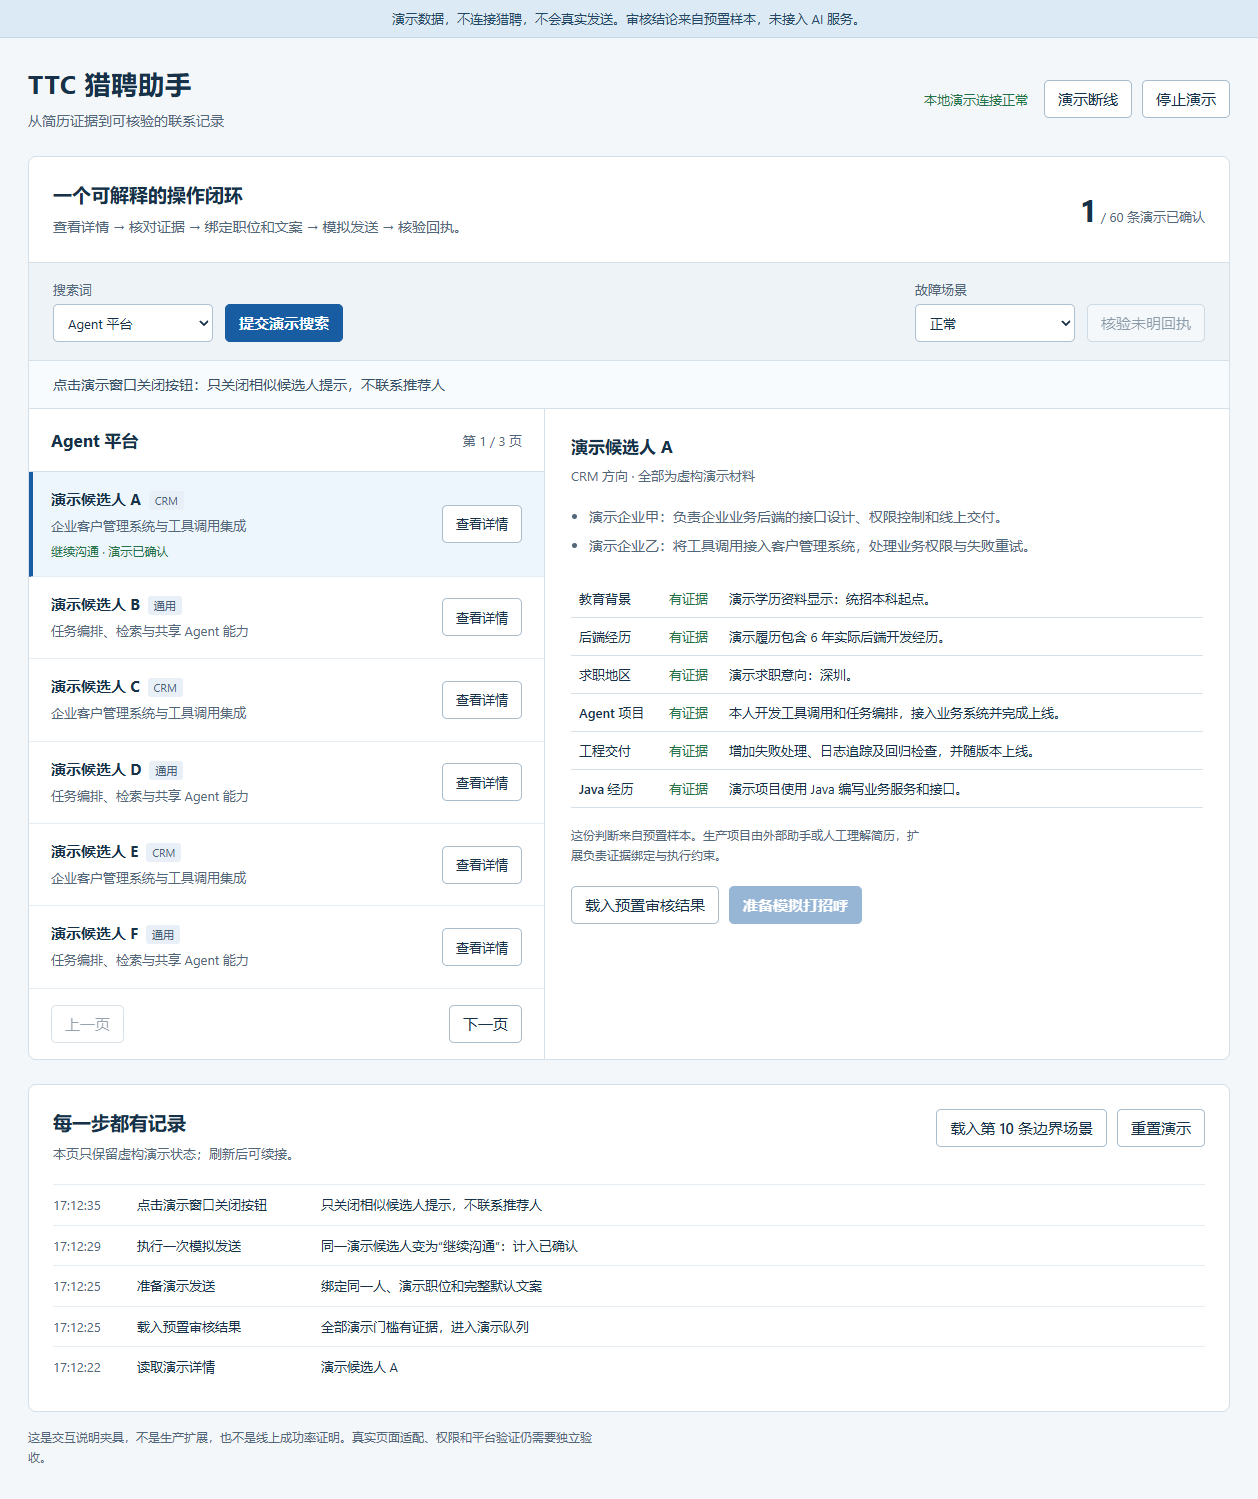
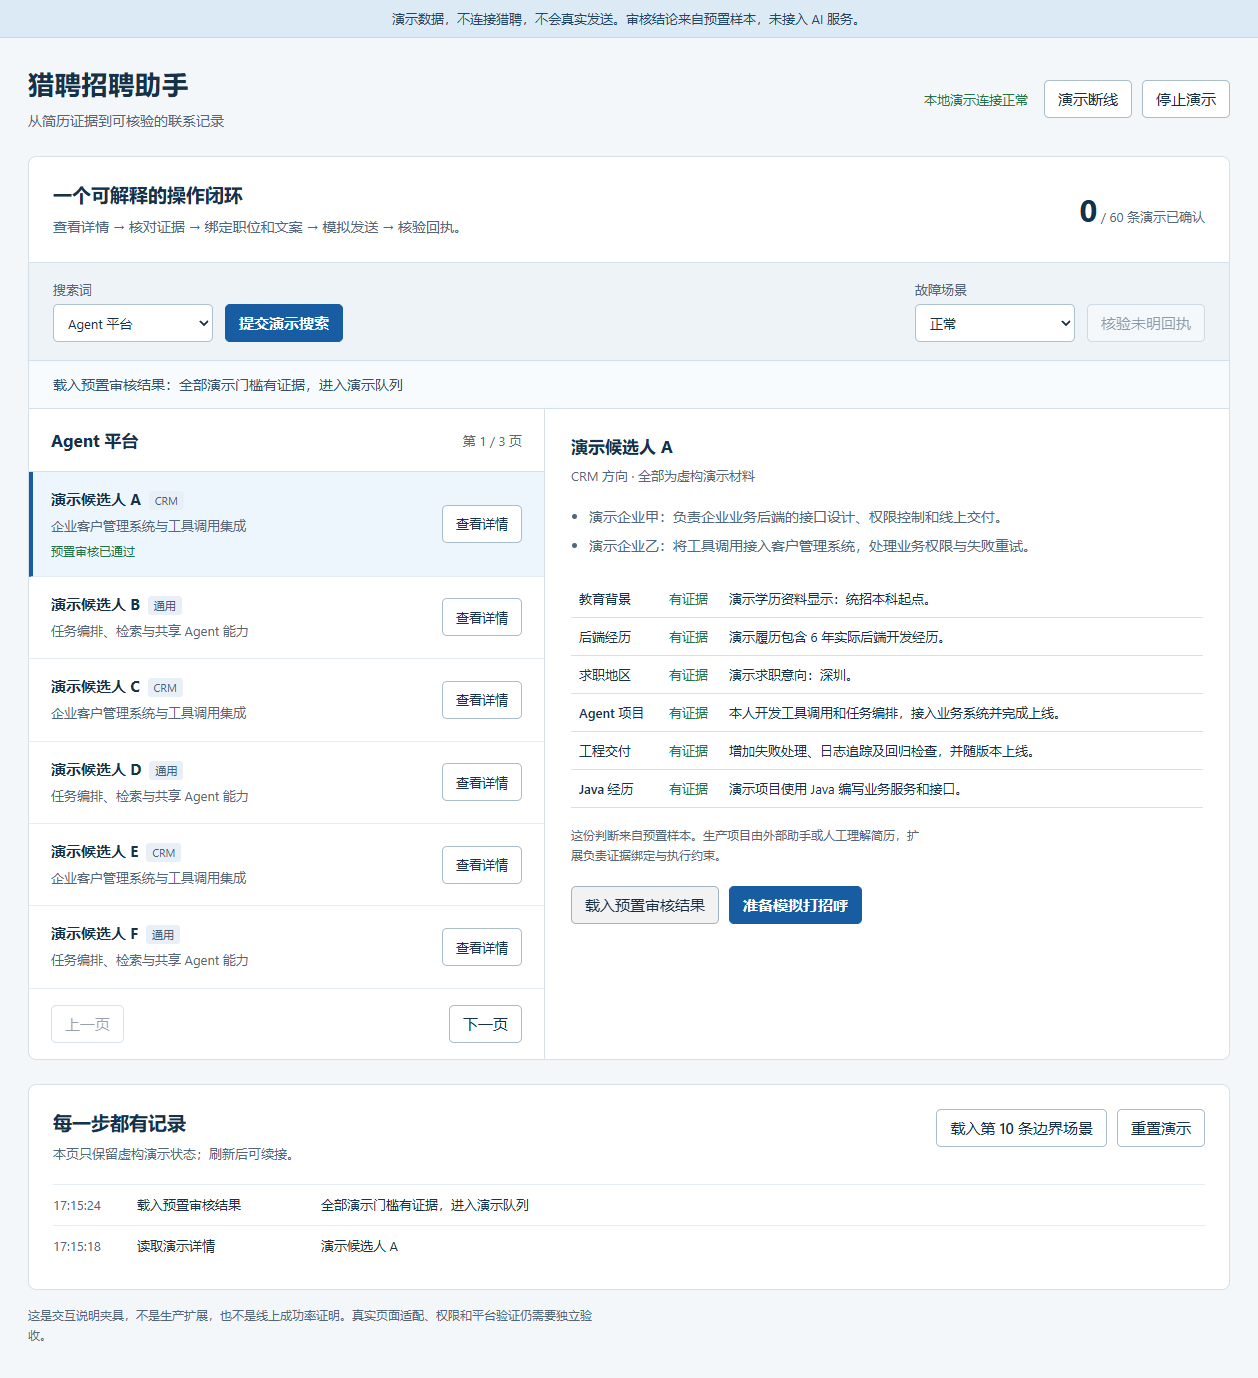
Remove company branding from project and demo

diff --git a/extension/content.js b/extension/content.js
@@ -39,7 +39,7 @@
   const click=(element,before=()=>{},guard=async()=>{},validate=()=>{})=>{
     const deadline=operationDeadline,assertActive=()=>ensureDeadline(deadline);
     assertActive();
-    return TTCPageControls.click(element,before,async()=>{assertActive();await guard();assertActive();},()=>{assertActive();validate();assertActive();},assertActive);
+    return RCPageControls.click(element,before,async()=>{assertActive();await guard();assertActive();},()=>{assertActive();validate();assertActive();},assertActive);
   };
   async function clickAfterLoading(el,validate){for(let i=0;i<3;i++){await wait(()=>![...document.querySelectorAll('.ant-spin-spinning')].some(visible),8000);try{return await click(el,()=>{},async()=>{},validate);}catch(e){if(!e.message.includes('ant-spin-spinning')||i===2)throw e;}}}
   const exact=(root,label)=>[...root.querySelectorAll('button,a,span,em')].filter(e=>visible(e)&&text(e)===label).sort((a,b)=>a.querySelectorAll('*').length-b.querySelectorAll('*').length)[0];
@@ -79,7 +79,7 @@
     const controls=[...d.querySelectorAll('button.ant-modal-close,.ant-modal-close,[aria-label="Close"],[aria-label="关闭"],.ant-notification-notice-close')].filter(visible);
     // The same close button can match several selectors; nested close icons are
     // resolved to their native control before the uniqueness check.
-    const unique=[...new Set(controls.map(e=>TTCPageControls.resolveControl?.(e)||e))];
+    const unique=[...new Set(controls.map(e=>RCPageControls.resolveControl?.(e)||e))];
     return unique.length===1?unique[0]:null;
   }
   function isCompletedDialog(d){
@@ -297,7 +297,7 @@
   }catch(e){if(!clicked)return {notSent:true,error:e.message};throw e;}}
   async function dispatch(m){
     if(m.type==='health')return {
-      protocol:6,clickVersion:TTCPageControls.version,
+      protocol:6,clickVersion:RCPageControls.version,
       viewport:{width:innerWidth,height:innerHeight,scrollX,scrollY,visualWidth:visualViewport?.width,visualHeight:visualViewport?.height,scale:visualViewport?.scale},
       visibility:document.visibilityState,focus:document.hasFocus(),
       pageBusy,pageOperation,capabilities:['inspect','detailLink','prepare','send','receipt','search'],

diff --git a/extension/panel.html b/extension/panel.html
@@ -1,7 +1,7 @@
 <!doctype html>
-<html lang="zh-CN"><head><meta charset="utf-8"><meta name="viewport" content="width=device-width,initial-scale=1"><title>TTC 猎聘助手</title><link rel="stylesheet" href="panel.css"></head>
+<html lang="zh-CN"><head><meta charset="utf-8"><meta name="viewport" content="width=device-width,initial-scale=1"><title>猎聘招聘助手</title><link rel="stylesheet" href="panel.css"></head>
 <body><main>
-<header><p class="eyebrow">TTC / RECRUITING COPILOT</p><h1>猎聘助手 <small>0.3.1</small></h1><p>保持此页打开。由外部 AI 助手阅读证据和审核，扩展执行校验与逐条操作。</p></header>
+<header><p class="eyebrow">RECRUITING COPILOT</p><h1>猎聘助手 <small>0.3.1</small></h1><p>保持此页打开。由外部 AI 助手阅读证据和审核，扩展执行校验与逐条操作。</p></header>
 <section aria-label="连接与控制"><div class="toolbar"><strong id="connection" role="status">正在连接本机服务…</strong><button id="assistantStop" class="danger">停止发送</button></div><p id="connectionHelp">首次使用先运行本机助手；只刷新网页不能启动本机服务。</p><p id="status" role="status">正在读取任务状态</p></section>
 <div class="metrics"><section><span>今日已核验</span><strong id="todayCount">—</strong><small>仅本地已知记录，不等于平台剩余额度</small></section><section><span>待核验发送</span><strong id="unknownCount">—</strong><small>结果不明时停止新增，不重发</small></section><section><span>本批已核验</span><strong id="batchCount">—</strong><small>续接保留当日总量与去重记录</small></section></div>
 <section><h2>当前执行位置</h2><dl><dt>关键词</dt><dd id="keyword">—</dd><dt>下一步</dt><dd id="nextStep">等待助手核对页面</dd><dt>运行状态</dt><dd id="runState">—</dd></dl><p>到达换词节点后先确认新搜索结果，再继续。恢复发送由助手核验账号、未明回执及额度后执行。</p></section>

diff --git a/demo/index.html b/demo/index.html
@@ -3,12 +3,12 @@
 <head>
   <meta charset="utf-8"><meta name="viewport" content="width=device-width,initial-scale=1">
   <meta http-equiv="Content-Security-Policy" content="default-src 'self'; script-src 'self'; style-src 'self'; connect-src 'none'; img-src 'self' data:; object-src 'none'; base-uri 'none'; form-action 'none'">
-  <title>TTC 猎聘助手 · 离线演示</title><link rel="stylesheet" href="style.css">
+  <title>猎聘招聘助手 · 离线演示</title><link rel="stylesheet" href="style.css">
 </head>
 <body>
   <div class="safety">演示数据，不连接猎聘，不会真实发送。审核结论来自预置样本，未接入 AI 服务。</div>
   <header>
-    <div><h1>TTC 猎聘助手</h1><p>从简历证据到可核验的联系记录</p></div>
+    <div><h1>猎聘招聘助手</h1><p>从简历证据到可核验的联系记录</p></div>
     <div class="header-actions"><span id="connection" class="status"></span><button id="connectionButton" class="quiet"></button><button id="stopButton" class="quiet"></button></div>
   </header>
   <main>

diff --git a/extension/bridge-client.js b/extension/bridge-client.js
@@ -10,7 +10,7 @@ async function loop(){
  for(;;){
   try{
    config ||= await requestJSON(chrome.runtime.getURL('bridge-config.json'));
-   const headers={Authorization:'Bearer '+config.token,'X-TTC-Client':'direct-1'};
+   const headers={Authorization:'Bearer '+config.token,'X-RC-Client':'direct-1'};
    // Persist results before posting; retry only the identical result, never the action.
    let pending=(await chrome.storage.local.get('bridgePendingResult')).bridgePendingResult;
    const inflight=(await chrome.storage.local.get('bridgeInflight')).bridgeInflight;
@@ -39,7 +39,7 @@ async function loop(){
 async function start(){
  try{
   connection.textContent='等待唯一控制权；已有助手页面时请使用原页面';
-  await navigator.locks.request('ttc-liepin-controller',loop);
+  await navigator.locks.request('recruiting-liepin-controller',loop);
  }catch(e){connection.textContent='初始化失败：'+e.name+' · '+e.message;}
 }
 start();

diff --git a/demo/model.js b/demo/model.js
@@ -116,5 +116,5 @@
     const ordered = samples.slice(offset).concat(samples.slice(0, offset));
     return ordered.slice((s.page - 1) * 6, s.page * 6);
   }
-  root.TTCDemo = Object.freeze({VERSION, JOB, GREETING, KEYWORDS, samples, initial, apply, count, pending, pageItems, sample});
+  root.RecruitingDemo = Object.freeze({VERSION, JOB, GREETING, KEYWORDS, samples, initial, apply, count, pending, pageItems, sample});
 })(globalThis);

diff --git a/extension/maintenance.html b/extension/maintenance.html
@@ -1,1 +1,1 @@
-<!doctype html><meta charset="utf-8"><p>正在更新TTC猎聘助手连接。</p><script src="maintenance.js"></script>
+<!doctype html><meta charset="utf-8"><p>正在更新猎聘招聘助手连接。</p><script src="maintenance.js"></script>

diff --git a/demo/app.js b/demo/app.js
@@ -1,6 +1,6 @@
 (function () {
   'use strict';
-  const M = TTCDemo, STORAGE = 'ttc-offline-demo-v1';
+  const M = RecruitingDemo, STORAGE = 'recruiting-offline-demo-v1';
   const $ = id => document.getElementById(id);
   let state;
   try {

diff --git a/extension/page-controls.js b/extension/page-controls.js
@@ -68,5 +68,5 @@
     assertActive();
     el.click();
   }
-  globalThis.TTCPageControls = Object.freeze({version:1, click, resolveControl});
+  globalThis.RCPageControls = Object.freeze({version:1, click, resolveControl});
 })();

diff --git a/bridge.py b/bridge.py
@@ -45,11 +45,11 @@ def make_server(read_only=False):
             self.send_header('Content-Type','application/json');self.end_headers();self.wfile.write(json.dumps(data,ensure_ascii=False).encode())
         def do_OPTIONS(self):
             if not self.headers.get('Origin','').startswith('chrome-extension://'):return self.response(403,{})
-            self.send_response(204);self.send_header('Access-Control-Allow-Origin',self.headers['Origin']);self.send_header('Access-Control-Allow-Headers','Authorization, Content-Type, X-TTC-Client');self.send_header('Access-Control-Allow-Methods','GET, POST, OPTIONS');self.end_headers()
+            self.send_response(204);self.send_header('Access-Control-Allow-Origin',self.headers['Origin']);self.send_header('Access-Control-Allow-Headers','Authorization, Content-Type, X-RC-Client');self.send_header('Access-Control-Allow-Methods','GET, POST, OPTIONS');self.end_headers()
         def do_GET(self):
             if not self.authorized():return self.response(403,{'error':'unauthorized'})
             if self.path!='/next':return self.response(404,{})
-            if self.headers.get('X-TTC-Client')!='direct-1':return self.response(200,None)
+            if self.headers.get('X-RC-Client')!='direct-1':return self.response(200,None)
             with lock:
                 save(RUNTIME/'heartbeat.json',{'time':time.time()})
                 # Never dispatch another task until the previous result is durable.

diff --git a/build.py b/build.py
@@ -27,5 +27,5 @@ def build(target,root=ROOT):
   assert not any('bridge-config.json' in n or '.runtime' in n or 'history-verified' in n for n in archive.namelist())
  return {'archive':str(target),'files':len(entries)+2,'sha256':hashlib.sha256(target.read_bytes()).hexdigest(),'profile':'public-source-allowlist'}
 if __name__=='__main__':
- p=argparse.ArgumentParser(description=__doc__);p.add_argument('--output',default=str(ROOT/'release'/('TTC-Recruiting-Copilot-'+json.loads((ROOT/'extension'/'manifest.json').read_text(encoding='utf-8'))['version']+'-source.zip')))
+ p=argparse.ArgumentParser(description=__doc__);p.add_argument('--output',default=str(ROOT/'release'/('Recruiting-Copilot-'+json.loads((ROOT/'extension'/'manifest.json').read_text(encoding='utf-8'))['version']+'-source.zip')))
  print(json.dumps(build(p.parse_args().output),ensure_ascii=False))

diff --git a/test/test_bridge.py b/test/test_bridge.py
@@ -8,7 +8,7 @@ class BridgeTests(unittest.TestCase):
   self.server=b.make_server();b.PORT=self.server.server_address[1];self.config=b.init();self.thread=threading.Thread(target=self.server.serve_forever,daemon=True);self.thread.start()
  def tearDown(self):self.server.shutdown();self.server.server_close();self.tmp.cleanup()
  def req(self,path='/next',data=None,origin=None,token=True):
-  headers={'X-TTC-Client':'direct-1'}
+  headers={'X-RC-Client':'direct-1'}
   if token:headers['Authorization']='Bearer '+self.config['token']
   if origin:headers['Origin']=origin
   req=urllib.request.Request(f'http://127.0.0.1:{b.PORT}'+path,data=json.dumps(data).encode() if data else None,headers=headers)

diff --git a/test/test_operator_reliability.py b/test/test_operator_reliability.py
@@ -125,7 +125,7 @@ class ReliabilityTests(unittest.TestCase):
   with patch.multiple(bridge,ROOT=op.ROOT,RUNTIME=op.RUNTIME,PORT=0):
    server=bridge.make_server();bridge.PORT=server.server_address[1]
    thread=threading.Thread(target=server.serve_forever,daemon=True);thread.start()
-   config=bridge.init();headers={'Authorization':'Bearer '+config['token'],'X-TTC-Client':'direct-1'}
+   config=bridge.init();headers={'Authorization':'Bearer '+config['token'],'X-RC-Client':'direct-1'}
    try:
     request=op.read(armed['requestFile'])
     bridge.save(op.RUNTIME/(command+'.command.json'),{'id':command,'expiresAt':time.time()+45,'command':request})
